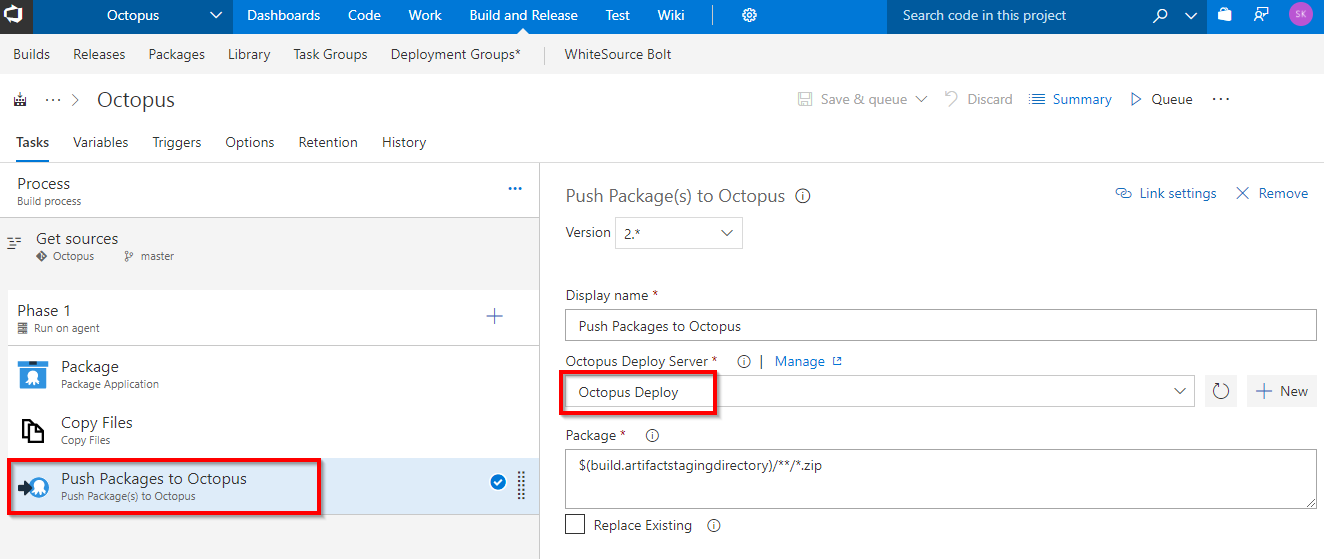
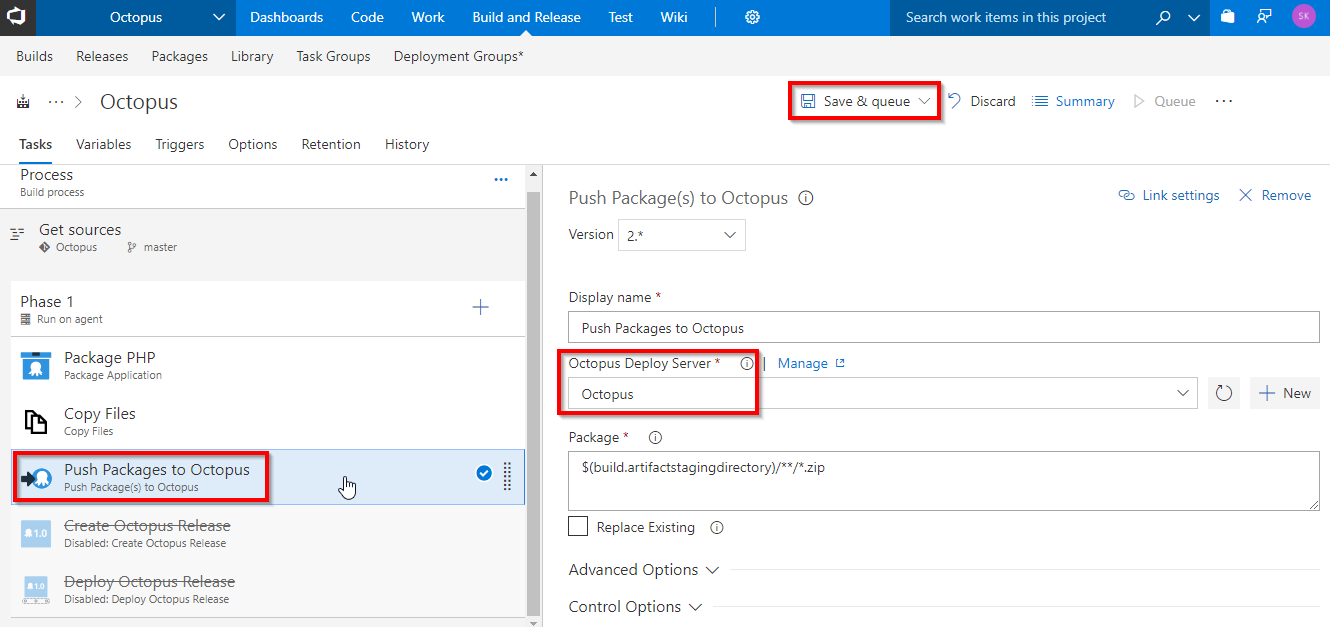
Updating task table

diff --git a/octopus/readme.md b/octopus/readme.md
@@ -185,8 +185,14 @@ In this exercise, we will package PHP application and push the package to Octopu
       <tr>
         <td><b>Push packages to Octopus</b></td>
         <td>Pushes the packages to Octopus server</td>
- 
-
+     <tr>
+      <td><b>Create Octopus Release</b></td>
+      <td>We enable this task to automate the creation of release in octopus server</td>
+     </tr>
+     <tr>
+      <td><b>Deploy Octopus Release</b></td>
+      <td>We enable this task to automate the deployment of release in octopus server</td>
+     </tr>
 
   </table>
 <br/>
